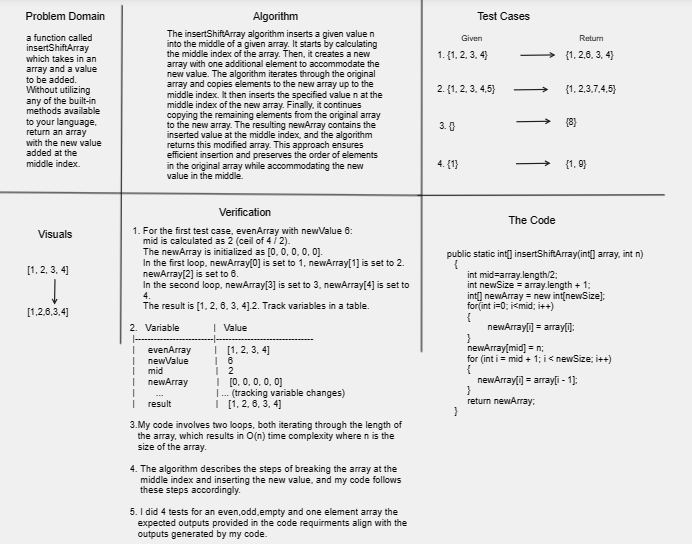
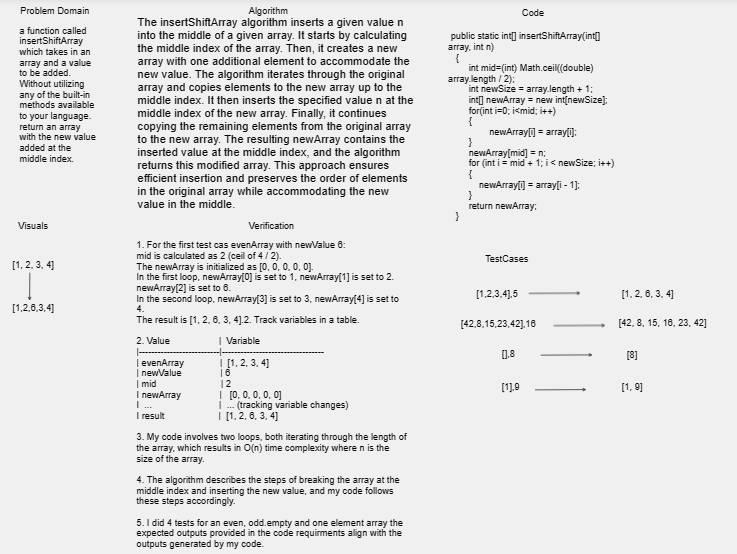
cc2submit

diff --git a/challenge2/Shift.java b/challenge2/Shift.java
@@ -11,8 +11,8 @@ public class Shift
         int newValue = 6;
         System.out.println((Arrays.toString(insertShiftArray(evenArray, newValue))));
 
-        int[] oddArray = {1,2,3,4,5};
-        int newValue1 = 7;
+        int[] oddArray = {42,8,15,23,42};
+        int newValue1 = 16;
         System.out.println((Arrays.toString(insertShiftArray(oddArray, newValue1))));
 
         int[] emptyArray = {};

diff --git a/challenge2/README.md b/challenge2/README.md
@@ -27,7 +27,7 @@ public class Shift
 
     public static int[] insertShiftArray(int[] array, int n)
    {
-        int mid=array.length/2;
+        int mid=(int) Math.ceil((double) array.length / 2);
         int newSize = array.length + 1;
         int[] newArray = new int[newSize];
         for(int i=0; i<mid; i++)
